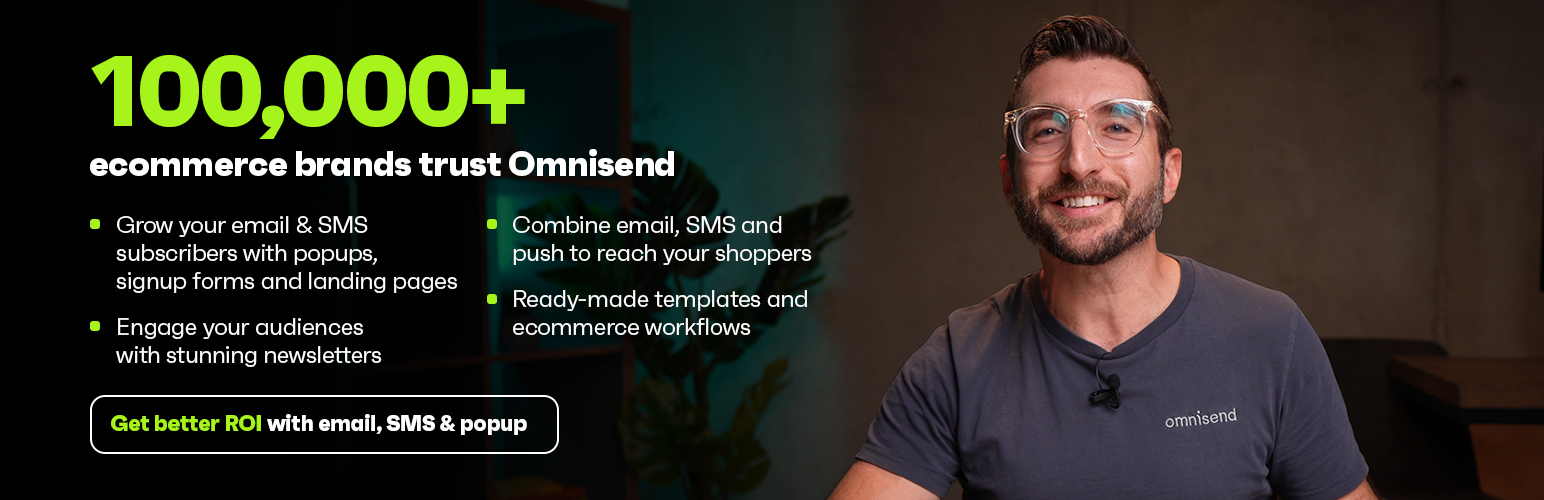
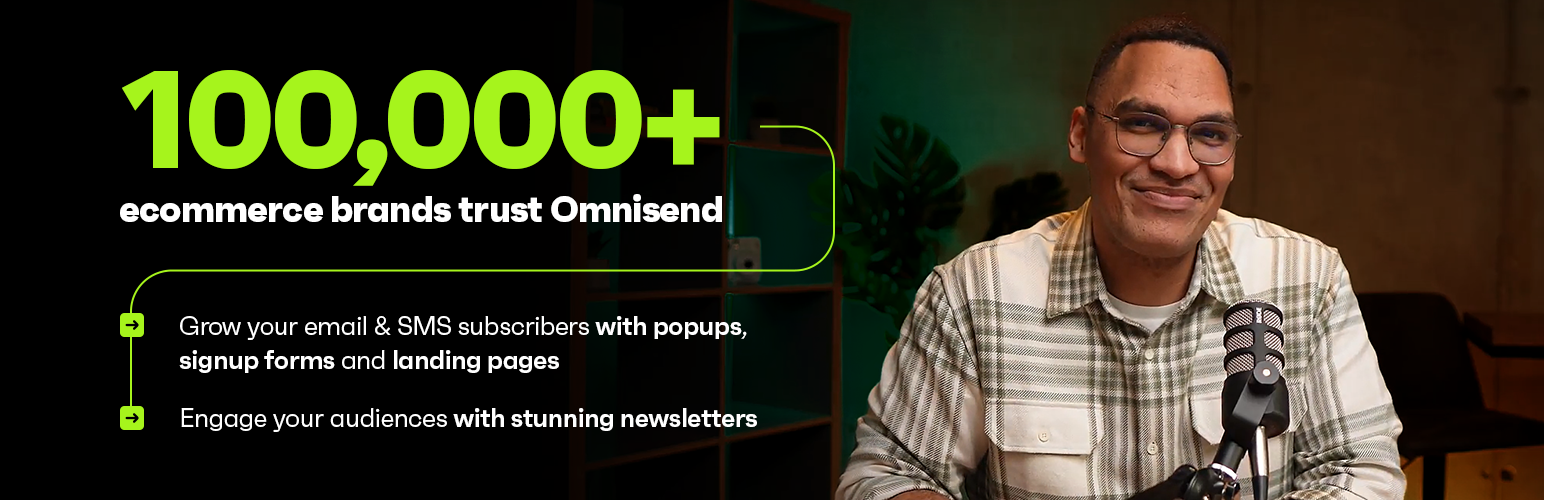
Update text & images

diff --git a/omnisend-for-gravity-forms/class-omnisend-addon-bootstrap.php b/omnisend-for-gravity-forms/class-omnisend-addon-bootstrap.php
@@ -2,7 +2,7 @@
 /**
  * Plugin Name: Omnisend for Gravity Forms Add-On
  * Description: A gravity forms add-on to sync contacts with Omnisend. In collaboration with Omnisnnd for WooCommerce plugin it enables better customer tracking
- * Version: 1.2.0
+ * Version: 1.2.1
  * Author: Omnisend
  * Author URI: https://www.omnisend.com
  * Developer: Omnisend
@@ -21,7 +21,7 @@ if ( ! defined( 'ABSPATH' ) ) {
 }
 
 const OMNISEND_GRAVITY_ADDON_NAME    = 'Omnisend for Gravity Forms Add-On';
-const OMNISEND_GRAVITY_ADDON_VERSION = '1.0.4';
+const OMNISEND_GRAVITY_ADDON_VERSION = '1.2.1';
 
 add_action( 'gform_loaded', array( 'Omnisend_AddOn_Bootstrap', 'load' ), 5 );
 
